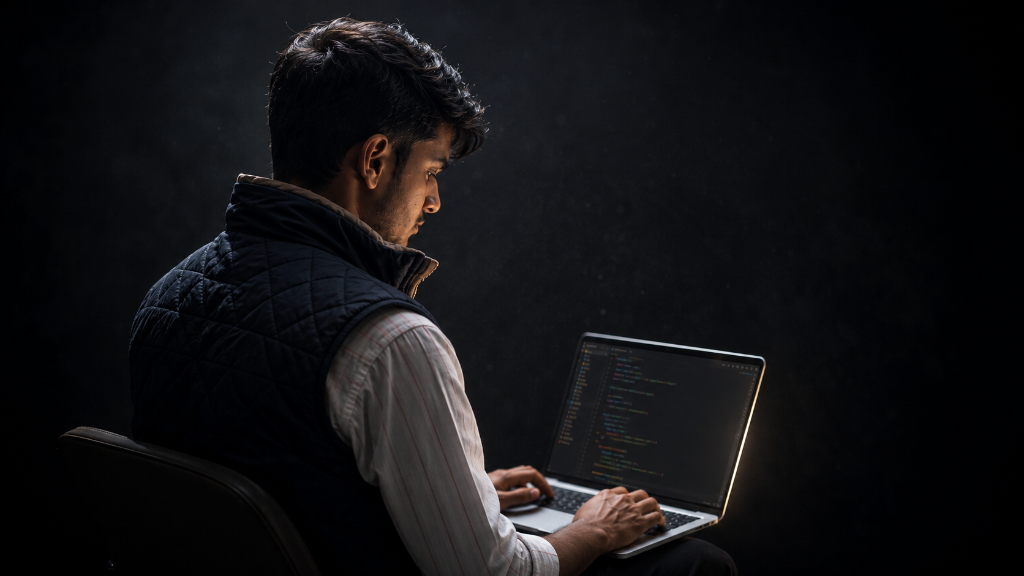
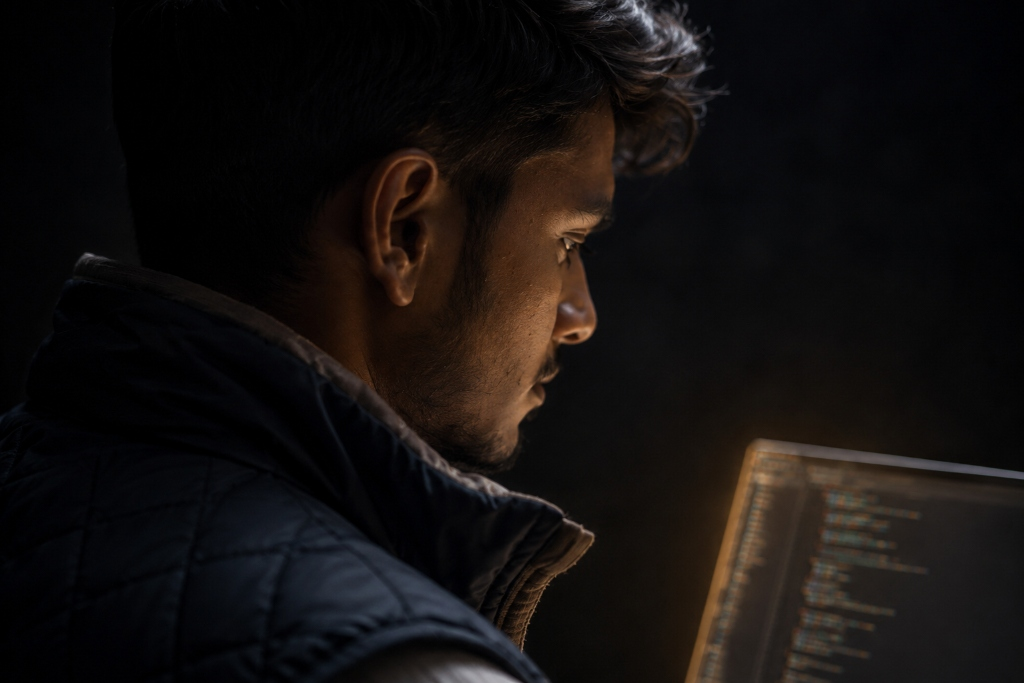
feat: update hero section photo with new close-up workstation photo

diff --git a/src/components/sections/hero.tsx b/src/components/sections/hero.tsx
@@ -2,8 +2,32 @@
 
 import { motion } from "framer-motion";
 import { ArrowRight, Sparkles, Code2, Globe } from "lucide-react";
+import { useState, useRef } from "react";
 
 export function Hero() {
+  const cardRef = useRef<HTMLDivElement>(null);
+  const [tilt, setTilt] = useState({ x: 0, y: 0 });
+
+  // Handle subtle 3D tilt on mouse move
+  const handleMouseMove = (e: React.MouseEvent<HTMLDivElement>) => {
+    if (!cardRef.current) return;
+    const rect = cardRef.current.getBoundingClientRect();
+    const x = e.clientX - rect.left;
+    const y = e.clientY - rect.top;
+    
+    const centerX = rect.width / 2;
+    const centerY = rect.height / 2;
+    
+    const rotateY = ((x - centerX) / centerX) * 8; // gentle 8deg tilt
+    const rotateX = -((y - centerY) / centerY) * 8;
+
+    setTilt({ x: rotateX, y: rotateY });
+  };
+
+  const handleMouseLeave = () => {
+    setTilt({ x: 0, y: 0 });
+  };
+
   const containerVariants: import("framer-motion").Variants = {
     hidden: { opacity: 0 },
     visible: {
@@ -25,45 +49,25 @@ export function Hero() {
   };
 
   return (
-    <section className="relative min-h-[92vh] lg:min-h-screen flex flex-col justify-between pt-24 lg:pt-28 pb-12 bg-[#060606] overflow-hidden">
-      
-      {/* Background Workstation Photo (Full 16:9 Un-cropped View of Saksham + Laptop) */}
-      <div className="absolute inset-0 z-0 overflow-hidden select-none">
-        {/* Left Side Photo Frame: Fits Saksham, Hands & Laptop completely without cropping */}
-        <div className="absolute left-0 lg:left-6 xl:left-12 top-1/2 -translate-y-1/2 w-full sm:w-[85%] lg:w-[48%] xl:w-[45%] max-h-[84vh] flex items-center justify-start pointer-events-none">
-          <img 
-            src="/landscape-hero.png" 
-            alt="Saksham Gupta Workstation & Laptop" 
-            className="w-full h-full object-contain object-left opacity-95 filter brightness-110 contrast-105"
-          />
-        </div>
+    <section className="relative min-h-[92vh] lg:min-h-screen flex flex-col justify-between pt-24 lg:pt-28 pb-8 bg-transparent overflow-hidden">
+      <div className="container mx-auto px-6 md:px-12 relative z-10 flex flex-col lg:flex-row-reverse items-center justify-between gap-8 lg:gap-12 my-auto">
         
-        {/* Seamless Horizontal & Vertical Blend Overlays: Melts photo edges into #060606 */}
-        <div className="absolute inset-0 bg-gradient-to-r from-transparent via-[#060606]/30 via-40% to-[#060606] lg:from-transparent lg:via-[#060606]/75 lg:via-48% lg:to-[#060606]" />
-        <div className="absolute inset-0 bg-gradient-to-b from-[#060606] via-transparent via-50% to-[#060606]" />
-        
-        {/* Ambient Warm Radial Accent behind Text */}
-        <div className="absolute right-0 top-1/2 -translate-y-1/2 w-full lg:w-1/2 h-full bg-radial from-[#ffca78]/8 to-transparent pointer-events-none" />
-      </div>
-
-      <div className="container mx-auto px-6 md:px-12 relative z-10 flex flex-col lg:flex-row items-center justify-end my-auto">
-        
-        {/* Right Column: Editorial Headline & Blended Copy (No Overlap) */}
+        {/* Right Column: Editorial Headline & Copy */}
         <motion.div 
-          className="w-full lg:w-[50%] xl:w-[48%] flex flex-col items-start text-left lg:pl-4 mt-4 lg:mt-0"
+          className="w-full lg:w-[54%] flex flex-col items-start text-left"
           variants={containerVariants}
           initial="hidden"
           animate="visible"
         >
           {/* Status Badge with Hand-drawn Aesthetic */}
           <motion.div variants={itemVariants} className="mb-4 flex flex-wrap items-center gap-2.5">
-            <div className="inline-flex items-center gap-2 px-3 py-1 rounded-full border-[2px] border-[#2b1a05] bg-[#ffca78] text-[#2b1a05] shadow-[2.5px_2.5px_0_#ffffff] text-xs font-mono font-medium tracking-wide">
+            <div className="inline-flex items-center gap-2 px-3 py-1 rounded-full border-[2px] border-[#2b1a05] bg-[#ffca78] text-[#2b1a05] shadow-[2.5px_2.5px_0_#2b1a05] text-xs font-mono font-medium tracking-wide">
               <span className="w-2 h-2 rounded-full bg-emerald-600 animate-ping" />
               <span>Full-Stack Developer & AI Builder</span>
             </div>
             
             {/* Handwritten cursive note */}
-            <span className="font-hand text-base md:text-lg text-[#ffca78] rotate-[-2deg] font-semibold tracking-wide">
+            <span className="font-hand text-base md:text-lg text-[#2b1a05]/80 rotate-[-2deg] font-semibold">
               ✦ crafting clean, scalable systems
             </span>
           </motion.div>
@@ -71,24 +75,24 @@ export function Hero() {
           {/* Headline in Playfair Display with Italic Accents */}
           <motion.h1 
             variants={itemVariants} 
-            className="text-3xl sm:text-4xl md:text-5xl xl:text-6xl font-serif text-[#faf7f3] leading-[1.1] tracking-tight mb-4 drop-shadow-sm"
+            className="text-3xl sm:text-4xl md:text-5xl xl:text-6xl font-serif text-[#2b1a05] leading-[1.1] tracking-tight mb-4"
           >
-            Turning <span className="italic font-serif font-normal text-[#ffca78] underline decoration-[#ffca78] decoration-4 underline-offset-6">complex ideas</span> into <span className="italic font-serif font-normal text-[#faf7f3]">scalable digital products.</span>
+            Turning <span className="italic font-serif font-normal text-[#2b1a05] underline decoration-[#ffca78] decoration-4 underline-offset-6">complex ideas</span> into <span className="italic font-serif font-normal">scalable digital products.</span>
           </motion.h1>
 
           {/* Subtitle / Intro */}
           <motion.p 
             variants={itemVariants} 
-            className="text-sm sm:text-base md:text-lg text-[#faf7f3]/85 max-w-[540px] mb-6 md:mb-8 leading-relaxed font-normal"
+            className="text-sm sm:text-base md:text-lg text-[#2b1a05]/80 max-w-[540px] mb-6 md:mb-8 leading-relaxed font-normal"
           >
-            Hi, I’m <span className="font-semibold text-white">Saksham Gupta</span>. I blend strategic system architecture, AI integration, and sleek modern UI engineering to build products that solve real-world problems.
+            Hi, I’m <span className="font-semibold text-[#2b1a05]">Saksham Gupta</span>. I blend strategic system architecture, AI integration, and sleek modern UI engineering to build products that solve real-world problems.
           </motion.p>
 
-          {/* Action CTAs with High-Contrast Neobrutalist Shadow */}
+          {/* Action CTAs with Neobrutalist Shadow */}
           <motion.div variants={itemVariants} className="flex flex-wrap items-center gap-3.5">
             <a 
               href="#projects"
-              className="inline-flex items-center gap-2 px-6 py-3 rounded-full border-[2.5px] border-[#2b1a05] bg-[#ffca78] text-[#2b1a05] text-xs sm:text-sm font-mono font-semibold uppercase tracking-wider shadow-[3.5px_3.5px_0_#ffffff] hover:shadow-[5px_5px_0_#ffffff] hover:-translate-y-0.5 active:translate-y-0 active:shadow-none transition-all duration-200"
+              className="inline-flex items-center gap-2 px-6 py-3 rounded-full border-[2.5px] border-[#2b1a05] bg-[#2b1a05] text-[#ffca78] text-xs sm:text-sm font-mono font-semibold uppercase tracking-wider shadow-[3.5px_3.5px_0_#ffca78] hover:shadow-[5px_5px_0_#ffca78] hover:-translate-y-0.5 active:translate-y-0 active:shadow-none transition-all duration-200"
             >
               <span>Explore Works</span>
               <ArrowRight className="w-4 h-4" />
@@ -98,37 +102,87 @@ export function Hero() {
               href="/resume.pdf" 
               target="_blank" 
               rel="noopener noreferrer"
-              className="inline-flex items-center gap-2 px-5 py-3 rounded-full border-[2.5px] border-[#faf7f3]/40 bg-white/10 backdrop-blur-sm text-[#faf7f3] text-xs sm:text-sm font-mono font-semibold uppercase tracking-wider shadow-[3.5px_3.5px_0_#ffca78] hover:bg-white/20 hover:shadow-[5px_5px_0_#ffca78] hover:-translate-y-0.5 active:translate-y-0 active:shadow-none transition-all duration-200"
+              className="inline-flex items-center gap-2 px-5 py-3 rounded-full border-[2.5px] border-[#2b1a05] bg-[#faf7f3] text-[#2b1a05] text-xs sm:text-sm font-mono font-semibold uppercase tracking-wider shadow-[3.5px_3.5px_0_#2b1a05] hover:shadow-[5px_5px_0_#2b1a05] hover:-translate-y-0.5 active:translate-y-0 active:shadow-none transition-all duration-200"
             >
               <span>Resume PDF</span>
             </a>
           </motion.div>
 
           {/* Feature Micro-Badges */}
-          <motion.div variants={itemVariants} className="mt-8 pt-4 border-t border-[#faf7f3]/15 flex flex-wrap items-center gap-3 text-xs font-mono text-[#faf7f3]/75">
+          <motion.div variants={itemVariants} className="mt-6 pt-4 border-t border-[#2b1a05]/15 flex flex-wrap items-center gap-3 text-xs font-mono text-[#2b1a05]/70">
             <div className="flex items-center gap-1.5">
-              <Code2 className="w-3.5 h-3.5 text-[#ffca78]" />
+              <Code2 className="w-3.5 h-3.5 text-[#2b1a05]" />
               <span>Full-Stack Architecture</span>
             </div>
             <span>•</span>
             <div className="flex items-center gap-1.5">
-              <Sparkles className="w-3.5 h-3.5 text-[#ffca78]" />
+              <Sparkles className="w-3.5 h-3.5 text-[#2b1a05]" />
               <span>AI Integration</span>
             </div>
             <span>•</span>
             <div className="flex items-center gap-1.5">
-              <Globe className="w-3.5 h-3.5 text-[#ffca78]" />
+              <Globe className="w-3.5 h-3.5 text-[#2b1a05]" />
               <span>Based in India</span>
             </div>
           </motion.div>
 
         </motion.div>
 
+        {/* Left Column / Background: Cinematic Landscape Photo Card */}
+        <motion.div 
+          initial={{ opacity: 0, scale: 0.95, rotate: -1.5 }}
+          animate={{ opacity: 1, scale: 1, rotate: 1.5 }}
+          transition={{ duration: 1, ease: [0.16, 1, 0.3, 1], delay: 0.3 }}
+          className="w-full lg:w-[46%] flex justify-center lg:justify-start relative mt-4 lg:mt-0 perspective-1000"
+        >
+          {/* Landscape Card Container */}
+          <div 
+            ref={cardRef}
+            onMouseMove={handleMouseMove}
+            onMouseLeave={handleMouseLeave}
+            style={{
+              transform: `rotateX(${tilt.x}deg) rotateY(${tilt.y}deg)`,
+              transition: "transform 0.2s ease-out",
+            }}
+            className="relative group p-3.5 sm:p-4 pb-5 sm:pb-6 rounded-[22px] border-[3px] border-[#2b1a05] bg-[#faf7f3] shadow-[8px_8px_0_#2b1a05] hover:shadow-[12px_12px_0_#2b1a05] hover:-translate-y-1 transition-all duration-300 w-full max-w-[460px] sm:max-w-[520px] xl:max-w-[560px] select-none"
+          >
+            
+            {/* Washi Tape / Push Pin Sticker */}
+            <div className="absolute -top-3 left-1/2 -translate-x-1/2 px-3 py-0.5 bg-[#ffca78] border border-[#2b1a05]/40 rounded-xs rotate-[-2deg] shadow-xs flex items-center justify-center whitespace-nowrap z-20">
+              <span className="text-[9px] font-mono uppercase tracking-wider text-[#2b1a05] font-bold opacity-80 whitespace-nowrap">
+                PORTFOLIO • 2026
+              </span>
+            </div>
+
+            {/* Cinematic Landscape Photo Container */}
+            <div className="relative aspect-[16/9.5] rounded-[14px] overflow-hidden border-[2.5px] border-[#2b1a05] bg-[#efe9da] shadow-inner">
+              <img 
+                src="/landscape-hero.png" 
+                alt="Saksham Gupta Cinematic Workstation" 
+                className="w-full h-full object-cover transition-transform duration-700 ease-out group-hover:scale-105"
+              />
+            </div>
+
+            {/* Bottom Caption Bar */}
+            <div className="mt-3.5 flex items-center justify-between px-1">
+              <div className="flex flex-col">
+                <span className="font-serif font-medium text-base sm:text-lg text-[#2b1a05] leading-tight">Saksham Gupta</span>
+                <span className="text-[10px] font-mono text-[#2b1a05]/60 uppercase tracking-wider font-semibold mt-0.5">
+                  Full Stack & AI Engineer
+                </span>
+              </div>
+              <div className="font-hand text-base sm:text-lg text-[#2b1a05] font-bold rotate-[-3deg]">
+                Say hello! 👋
+              </div>
+            </div>
+
+          </div>
+        </motion.div>
+
       </div>
     </section>
   );
 }
-
 
 
 

diff --git a/src/components/sections/nav.tsx b/src/components/sections/nav.tsx
@@ -40,25 +40,20 @@ export function Navigation() {
       )}
     >
       <div className="container mx-auto px-6 md:px-12 flex items-center justify-between">
-        <a href="#" className={cn("text-xl font-serif font-bold tracking-tight flex items-center gap-3 relative z-50 group transition-colors duration-300", scrolled || isOpen ? "text-[#2b1a05]" : "text-[#faf7f3]")}>
+        <a href="#" className="text-xl font-serif font-bold tracking-tight text-[#2b1a05] flex items-center gap-3 relative z-50 group">
           <div className="w-10 h-10 rounded-full border-[2px] border-[#2b1a05] bg-[#ffca78] flex items-center justify-center shadow-[2px_2px_0_#2b1a05] overflow-hidden group-hover:rotate-12 transition-transform">
             <img src="/logo.png" alt="Logo" className="w-6 h-6 object-contain filter brightness-0" />
           </div>
-          <span className="font-serif italic font-medium drop-shadow-xs">Saksham Gupta</span>
+          <span className="font-serif italic font-medium">Saksham Gupta</span>
         </a>
 
         {/* Desktop Nav */}
-        <nav className={cn(
-          "hidden md:flex items-center gap-2 border-[2px] border-[#2b1a05] rounded-full p-1.5 backdrop-blur-md transition-all duration-300",
-          scrolled 
-            ? "bg-[#efe9da]/90 shadow-[2px_2px_0_rgba(43,26,5,0.08)]" 
-            : "bg-[#faf7f3] shadow-[3px_3px_0_#ffca78]"
-        )}>
+        <nav className="hidden md:flex items-center gap-2 bg-[#efe9da]/80 border-[2px] border-[#2b1a05]/20 rounded-full p-1.5 backdrop-blur-sm shadow-[2px_2px_0_rgba(43,26,5,0.08)]">
           {navItems.map((item) => (
             <a
               key={item.name}
               href={item.href}
-              className="text-xs font-mono font-bold tracking-wider uppercase text-[#2b1a05] hover:text-[#2b1a05] hover:bg-[#ffca78] transition-all rounded-full px-4 py-2 border border-transparent hover:border-[#2b1a05]/30"
+              className="text-xs font-mono font-medium tracking-wider uppercase text-[#2b1a05] hover:text-[#2b1a05] hover:bg-[#ffca78] transition-all rounded-full px-4 py-2 border border-transparent hover:border-[#2b1a05]/30"
             >
               {item.name}
             </a>
@@ -68,10 +63,10 @@ export function Navigation() {
         {/* Get in Touch CTA */}
         <a 
           href="#contact"
-          className="hidden md:inline-flex items-center gap-2 px-6 py-2.5 rounded-full text-xs font-mono font-bold uppercase tracking-wider bg-[#2b1a05] hover:bg-[#ffca78] text-[#ffca78] hover:text-[#2b1a05] border-[2px] border-[#2b1a05] shadow-[3px_3px_0_#ffca78] hover:shadow-[5px_5px_0_#2b1a05] hover:-translate-y-0.5 transition-all duration-200 relative z-50"
+          className="hidden md:inline-flex items-center gap-2 px-6 py-2 rounded-full text-xs font-mono font-bold uppercase tracking-wider bg-[#2b1a05] hover:bg-[#ffca78] text-[#ffca78] hover:text-[#2b1a05] border-[2px] border-[#2b1a05] shadow-[3px_3px_0_#2b1a05] hover:shadow-[5px_5px_0_#2b1a05] hover:-translate-y-0.5 transition-all duration-200 relative z-50"
         >
           <span>Get in Touch</span>
-          <span className="w-1.5 h-1.5 rounded-full bg-emerald-400 animate-ping" />
+          <span className="w-1.5 h-1.5 rounded-full bg-emerald-400" />
         </a>
 
         {/* Mobile Toggle */}
